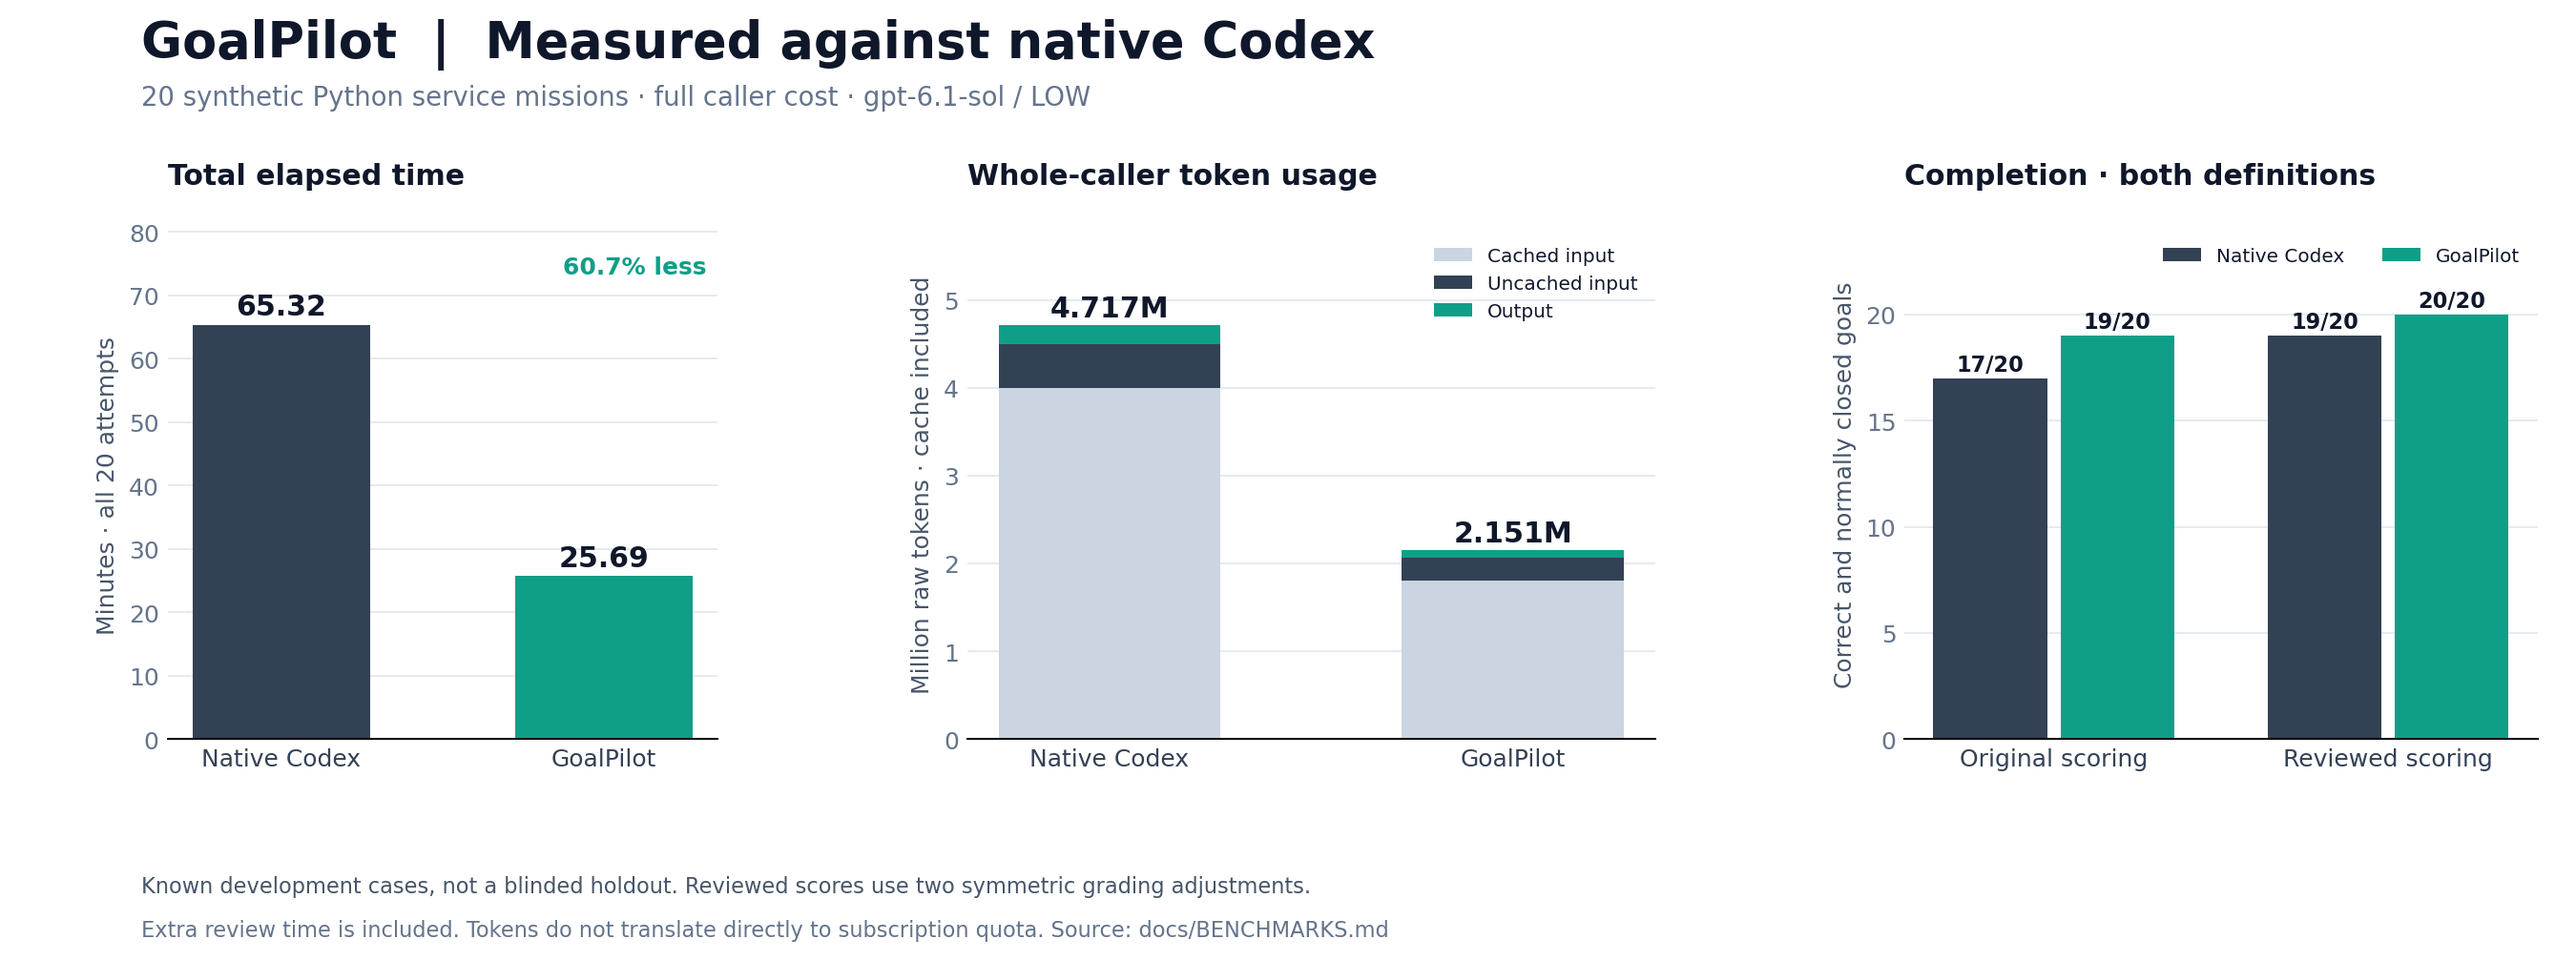
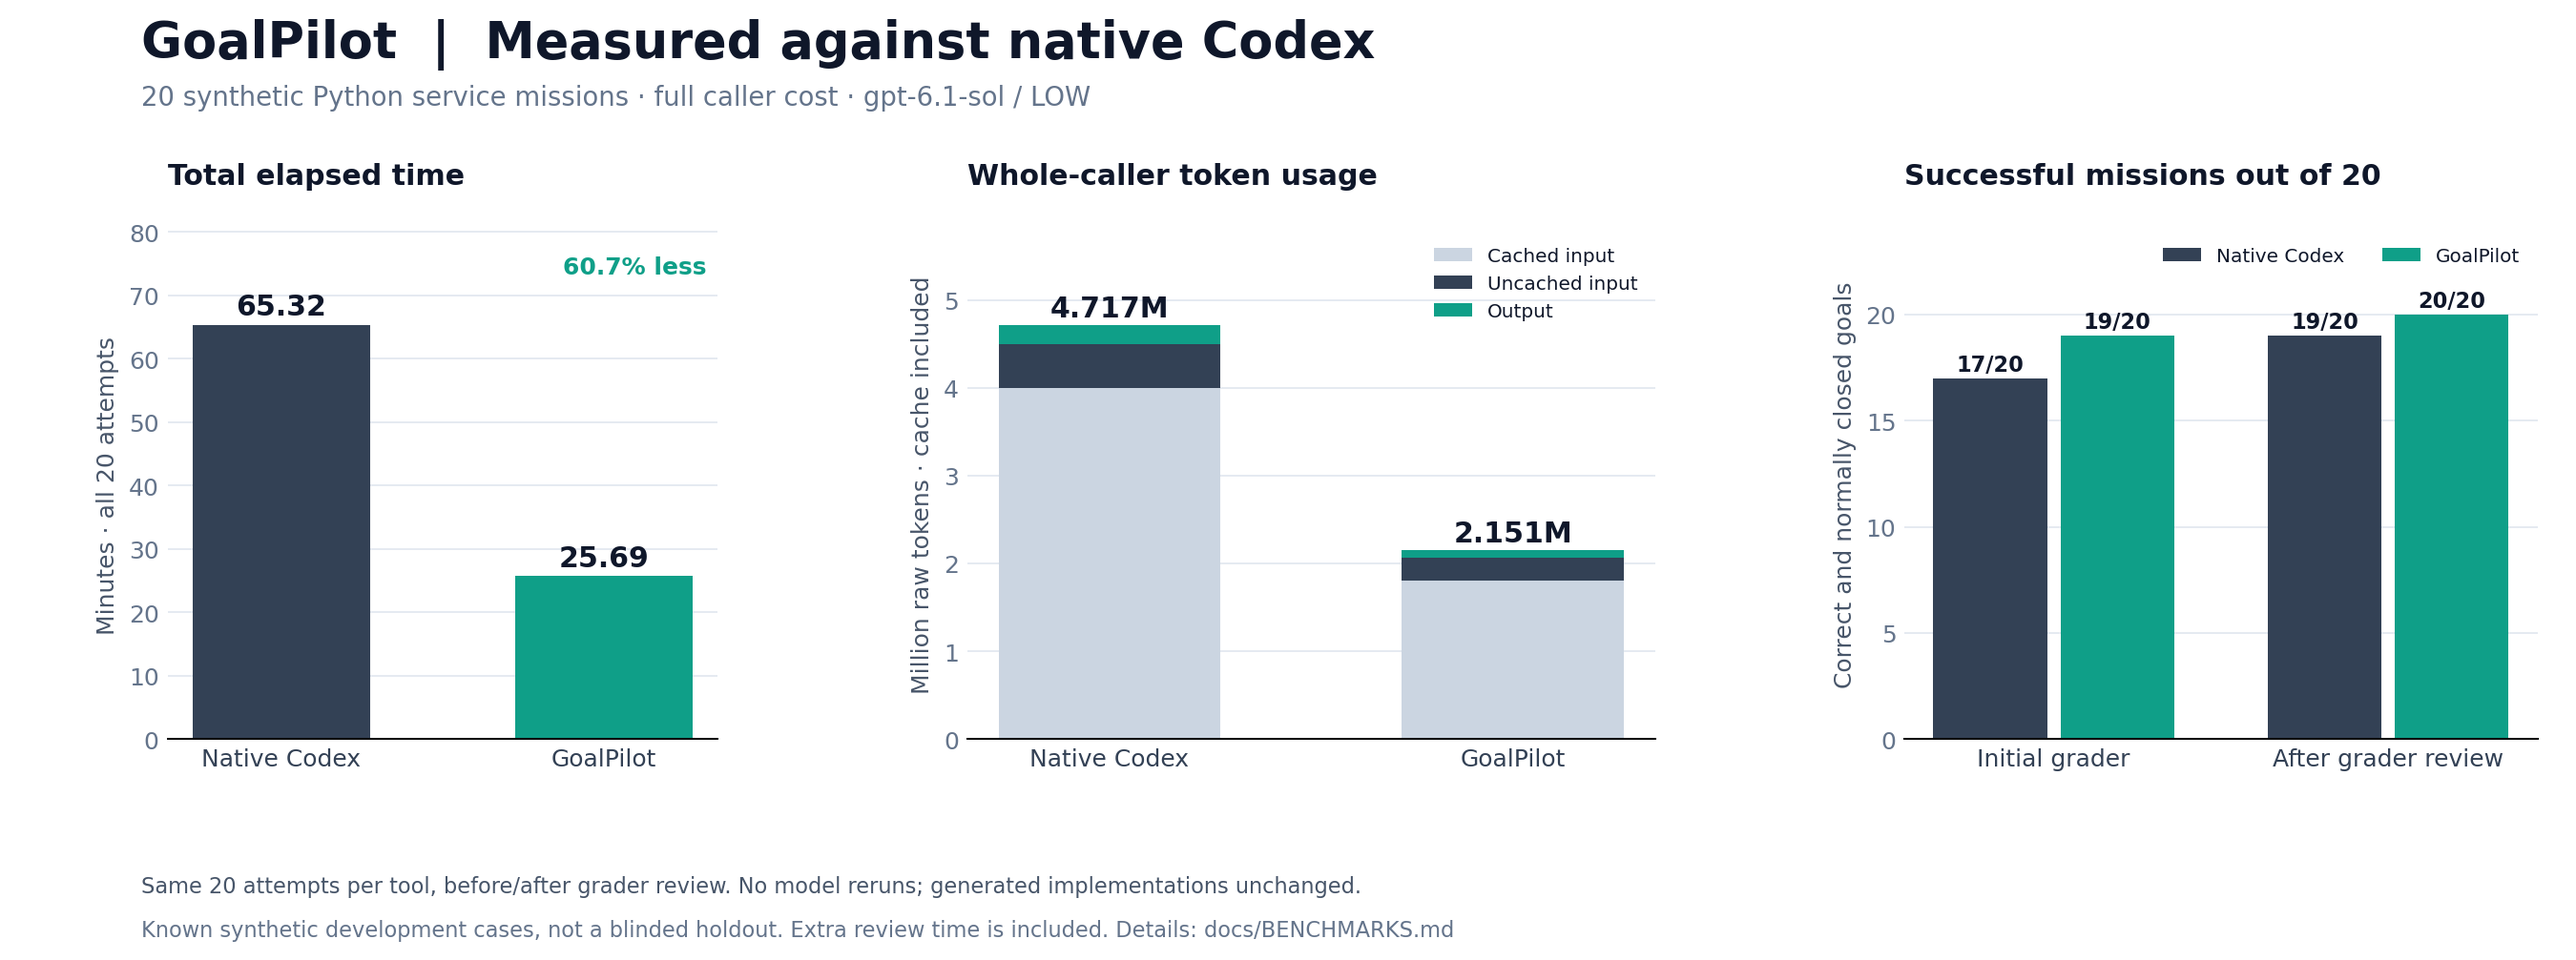
Explain mission completion counts and the symmetric grader review

diff --git a/tools/plot_benchmark.py b/tools/plot_benchmark.py
@@ -61,11 +61,11 @@ def main():
         ax.bar([x + offset for x in positions], values, width=.34, color=color, label=label)
         for x, value in zip(positions, values):
             ax.text(x + offset, value + .35, f'{value}/20', ha='center', fontsize=9, fontweight='bold')
-    ax.set_xticks(positions, ['Original scoring', 'Reviewed scoring'])
+    ax.set_xticks(positions, ['Initial grader', 'After grader review'])
     ax.set_ylim(0, 24)
     ax.set_yticks([0, 5, 10, 15, 20])
     ax.set_ylabel('Correct and normally closed goals')
-    ax.set_title('Completion · both definitions', loc='left', fontweight='bold', pad=19)
+    ax.set_title('Successful missions out of 20', loc='left', fontweight='bold', pad=19)
     ax.legend(loc='upper right', frameon=False, fontsize=8, ncol=2)
 
     for ax in axes:
@@ -76,9 +76,9 @@ def main():
                  ha='left', fontsize=21, fontweight='bold')
     fig.text(.055, .89, '20 synthetic Python service missions · full caller cost · gpt-6.1-sol / LOW',
              fontsize=11, color='#64748b')
-    fig.text(.055, .07, 'Known development cases, not a blinded holdout. Reviewed scores use two symmetric grading adjustments.',
+    fig.text(.055, .07, 'Same 20 attempts per tool, before/after grader review. No model reruns; generated implementations unchanged.',
              fontsize=9, color='#475569')
-    fig.text(.055, .025, 'Extra review time is included. Tokens do not translate directly to subscription quota. Source: docs/BENCHMARKS.md',
+    fig.text(.055, .025, 'Known synthetic development cases, not a blinded holdout. Extra review time is included. Details: docs/BENCHMARKS.md',
              fontsize=9, color='#64748b')
     fig.subplots_adjust(left=.065, right=.985, bottom=.23, top=.76, wspace=.4)
     target = ROOT / 'docs/assets'

diff --git a/README.md b/README.md
@@ -22,8 +22,22 @@ On **20 selected synthetic Python service missions**, the complete GoalPilot inv
 | Uncached input tokens | 499,412 | 256,343 | **48.67%** |
 | Output tokens | 221,009 | 86,013 | **61.08%** |
 | Raw tokens, including cached input | 4,716,581 | 2,151,252 | **54.39%** |
-| Correct, normally closed goals — reviewed scoring | 19/20 | 20/20 | Observed count preserved |
-| Correct, normally closed goals — original scoring | 17/20 | 19/20 | Observed count preserved |
+
+### What do 17/20, 19/20 and 20/20 mean?
+
+The denominator is **20 complete coding missions per tool**. For example, **17/20 means 17 missions passed and 3 did not**. A mission counts as a success only when the agent finishes normally **and** its delivered application passes every required external behavioral check. These are mission counts, not token scores or individual unit tests.
+
+The different totals show **the same implementations evaluated before and after a review of the benchmark's grader**:
+
+| Grading stage | Native Codex | GoalPilot | Why the count changes |
+| :--- | ---: | ---: | :--- |
+| Initial grader | **17/20 (85%)** | **19/20 (95%)** | Original recorded results. |
+| Billing test corrected | **18/20 (90%)** | **20/20 (100%)** | One faulty subscription test had incorrectly failed both tools. |
+| Ambiguous return format accepted | **19/20 (95%)** | **20/20 (100%)** | One annotation test had rejected a valid interpretation used by native Codex. |
+
+**No model was rerun and no implementation was improved between these rows.** The review changed the grading of existing outputs; it did not complete additional goals. Original scores remain published, the same revised rules apply to both tools, and extra judging time is included. Native Codex's remaining reviewed failure is a ticketing mission with incorrect duplicate-request handling.
+
+The final **20/20 is the observed result on this particular set**, not a promise of 100% success on new tasks. The **283 tests** mentioned below are a separate offline regression suite for GoalPilot itself. The **4/4** old-skill comparison in the report uses four predefined anchors and is separate from this native-Codex comparison. [See the exact grading changes and evidence](docs/BENCHMARKS.md#original-versus-reviewed-scoring).
 
 **What these numbers cover:** the entire calling session, including skill setup and reading, context, coding, repairs and Stop verification, plus independent judging time. Failed attempts remain in the totals. Both arms used `gpt-6.1-sol`, LOW effort and matching execution permissions. Native Codex used its real goal API and automatic continuations.
 

diff --git a/docs/BENCHMARKS.md b/docs/BENCHMARKS.md
@@ -36,6 +36,16 @@ Some native controls preceded the final skill and were explicitly carried forwar
 
 ## Original versus reviewed scoring
 
+Each fraction counts **successful coding missions out of 20 attempts per tool**. Success requires normal goal closure and all independent behavioral checks, not merely an agent saying it is done. A 17/20 result means 17 successful missions and 3 unsuccessful missions.
+
+| Stage — same 20 attempts per tool | Native Codex | GoalPilot | Change from the previous row |
+| :--- | ---: | ---: | :--- |
+| Initial grader | 17/20 (85%) | 19/20 (95%) | Original recorded result. |
+| Correct the subscription billing test | 18/20 (90%) | 20/20 (100%) | One previously failed mission becomes a pass for each tool. |
+| Accept the ambiguous annotation return format | 19/20 (95%) | 20/20 (100%) | One further native mission becomes a pass; GoalPilot's count is unchanged. |
+
+This table is a grading sensitivity analysis of the same delivered applications. It is not a sequence of product versions, new model attempts or goals repaired after seeing external feedback. The denominator stays 20 throughout. The final observed counts do not establish a universal completion rate or statistically reliable superiority on new tasks.
+
 The original analysis and original outcomes remain unchanged. Two post-registration reviews were applied symmetrically, with no product edits or model reruns:
 
 1. **Subscriptions:** the original race check required both requests at a billing boundary to succeed, although the first call advanced the boundary and the documented precondition required the loser to reject. Both implementations correctly rejected that call. The corrected grader requires exactly one successful billing operation and one invoice; invalid alternatives are rejected.
